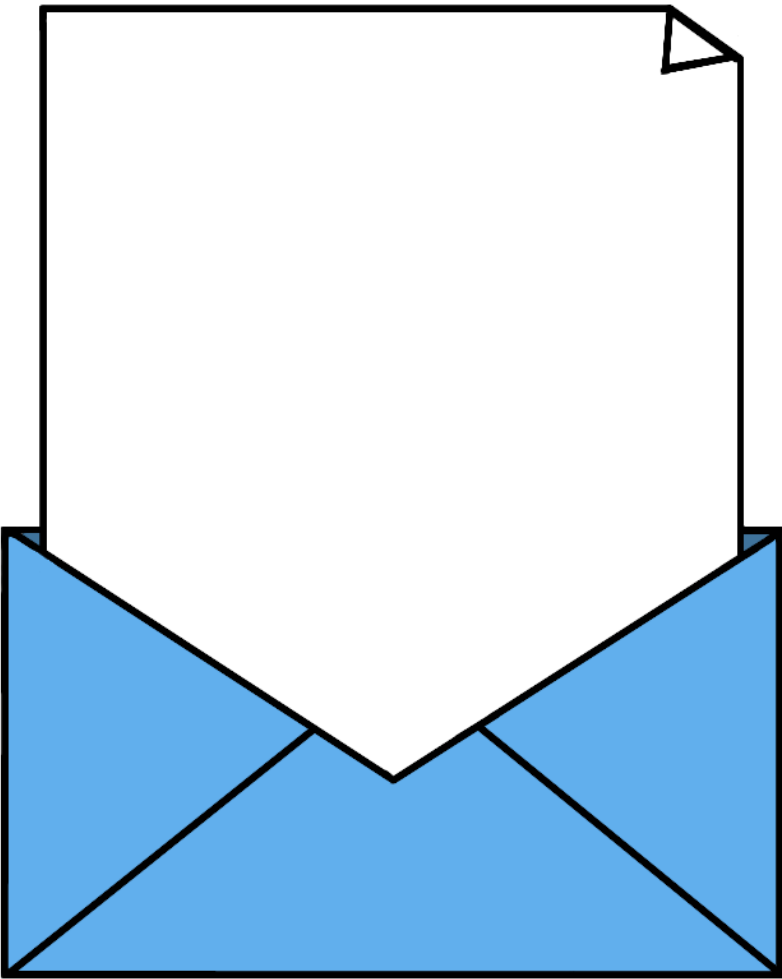
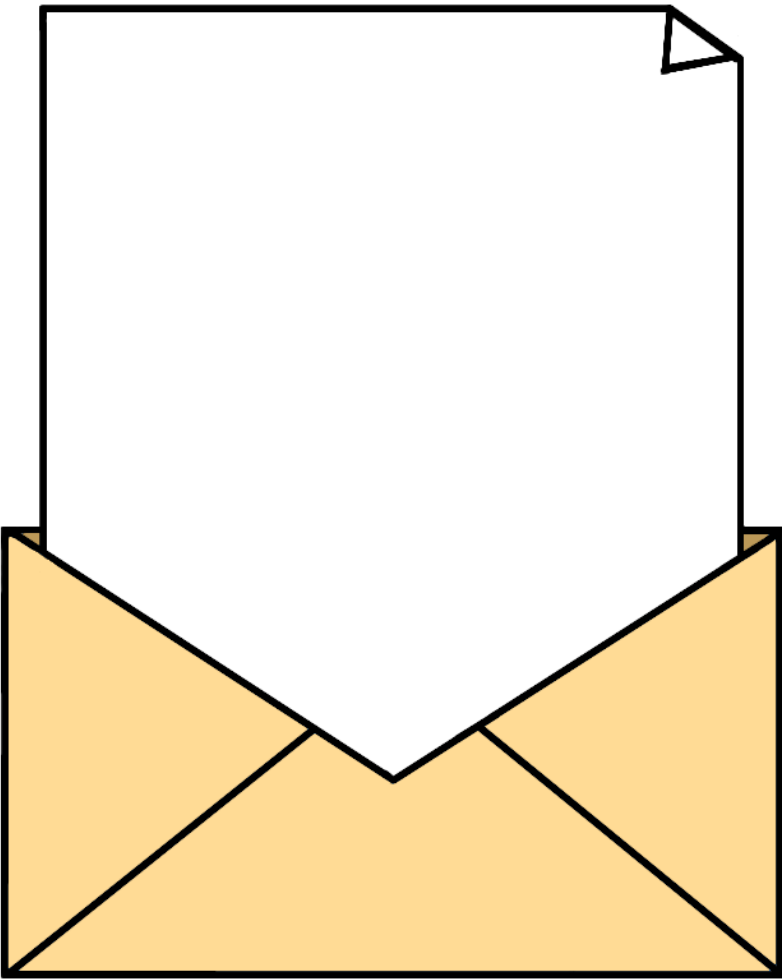
update 21:25 28/10

diff --git a/css/base.css b/css/base.css
@@ -6,9 +6,9 @@
     --font-size-container__psg-mini-mobile: 0.9rem;
     --line-height-container__psg-mini-mobile: 1.2rem;
     --white-color: #fff;
-    --primary-color: #3D62A9;
-    --light-primary-color: #61afeb;
-    --dark-primary-color: #0a4375;
+    --primary-color: #F1B736;
+    --light-primary-color: #f3cd81;
+    --dark-primary-color: #c08d1f;
     --text-color: #000;
     --text-light-color: #B3B3B3;
     --header-height: 7rem;
@@ -98,17 +98,17 @@ html {
 }
 
 .modal-container-icon {
+    color: var(--light-primary-color);
     position: absolute;
     top: 75px;
     right: -20px;
     font-size: 5.5rem;
-    color: var(--dark-primary-color);
     padding: 10px;
     cursor: pointer;
 }
 
 .modal-container-icon:hover {
-    color: var(--primary-color);
+    color: var(--dark-primary-color);
 }
 
 @keyframes modalFadeIn {

diff --git a/index.html b/index.html
@@ -1,6 +1,7 @@
 <!DOCTYPE html>
 <html lang="en">
 <head>
+    <title>Cô Trần Thu Hương</title>
     <meta charset="UTF-8">
     <meta http-equiv="X-UA-Compatible" content="IE=edge">
     <meta name="viewport" content="width=device-width, initial-scale=1.0">
@@ -67,7 +68,7 @@
                         <i class="fas fa-long-arrow-alt-down content__text-icon"></i>
                     </div>
                 </div>
-                <img src="img/cohuong.jpg" alt="Thầy Công" class="content__main-img">
+                <img src="img/cohuong.png" alt="Thầy Công" class="content__main-img">
             </div>
 
             <div id="content__mail">

diff --git a/css/main.css b/css/main.css
@@ -14,7 +14,7 @@
     bottom: 0;
     right: 0;
     left: 0;
-    background-color: rgba(255,255,255,0.94);
+    background-color: rgba(255,255,255,0.9);
 }
 
 /* Header */
